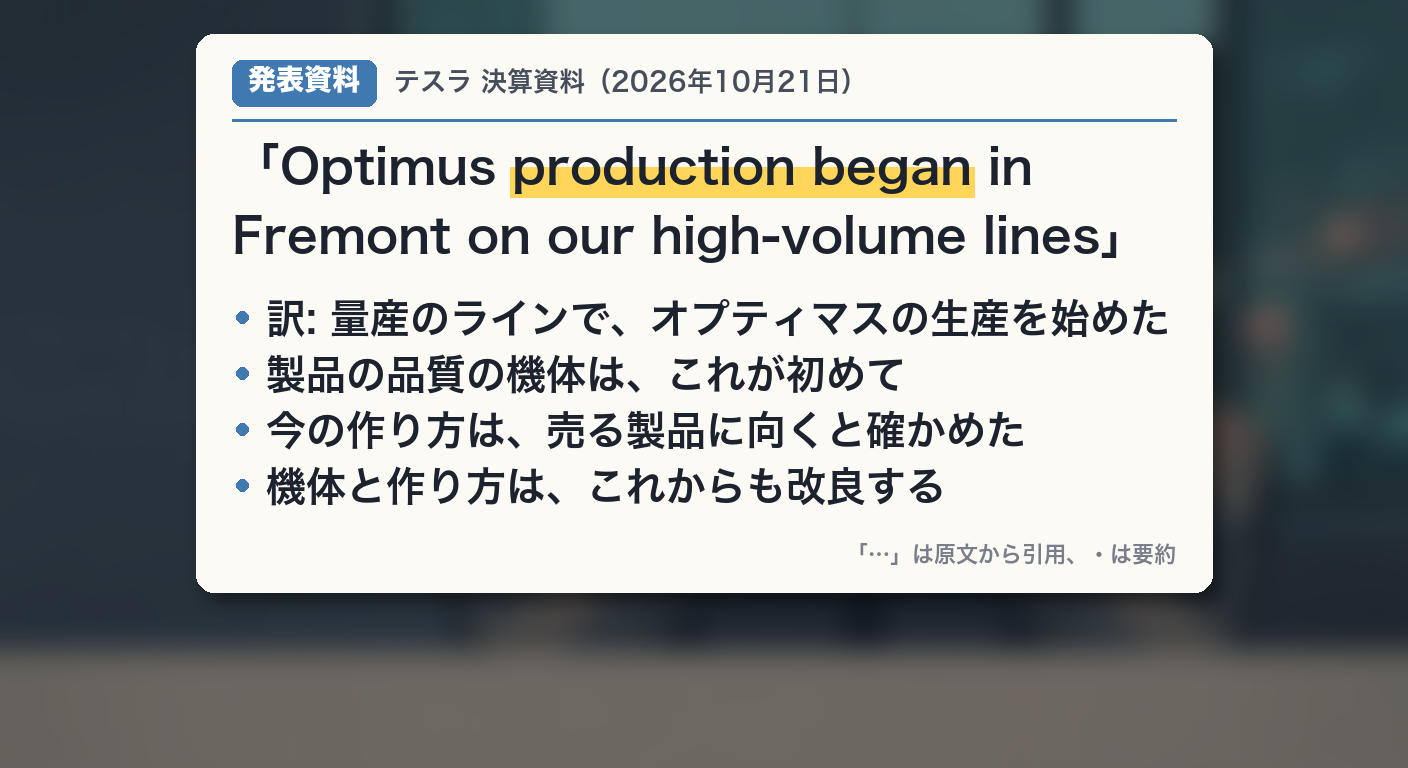
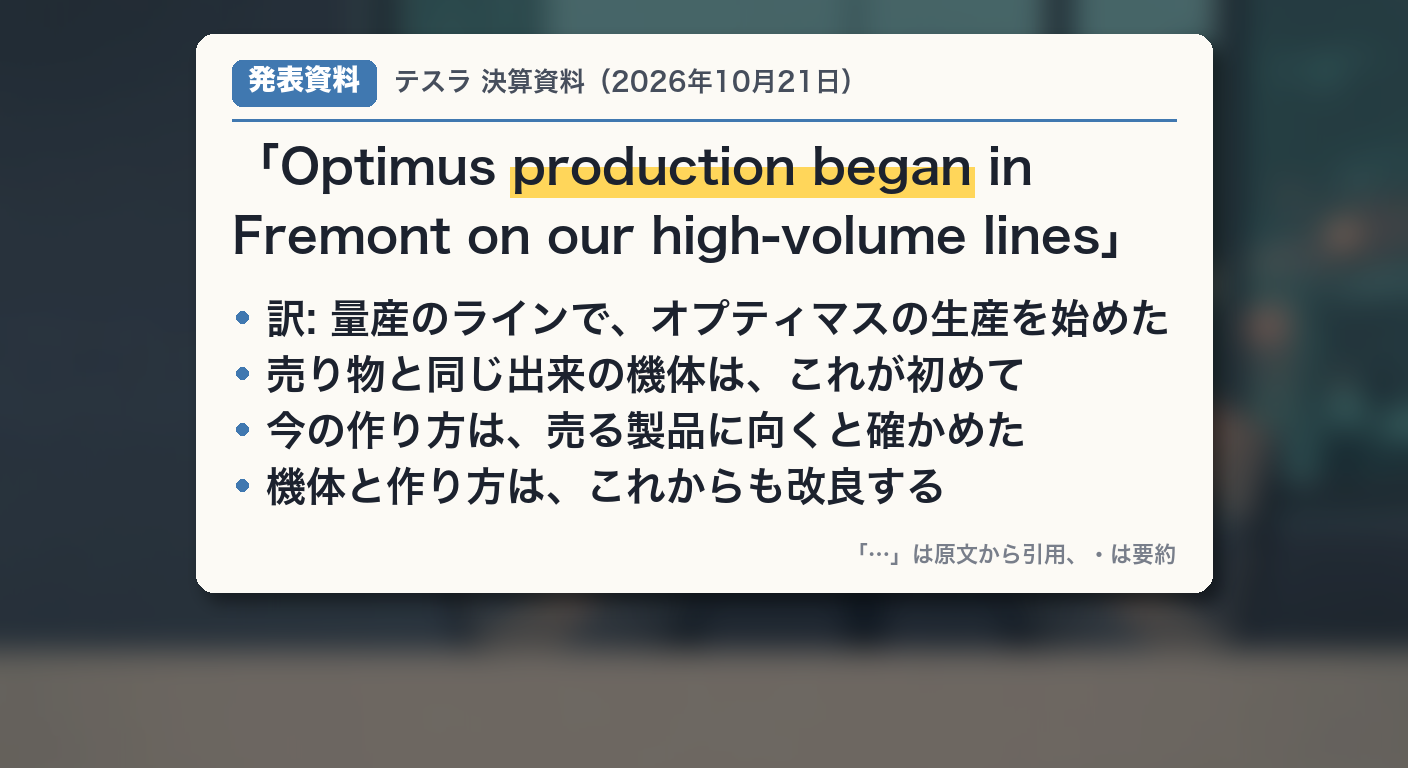
kl051: 初見レビュー3周で合格、台本確定

Changed region(s): [[0.1875, 0.4375, 0.7188, 0.5312]]

diff --git a/script_prep/kl051.md b/script_prep/kl051.md
@@ -95,7 +95,8 @@
 - 「決算資料」: テスラが3か月ごとに出す、会社の成績と計画の資料
 - 「説明会」: 決算資料を出した日に、経営陣が質問に答える会。その発言は資料とは別、と区別する
 - 「量産のライン」: 同じ物を大量に作るための工場の流れ作業
-- 「外の会社」: テスラ以外の会社（説明会の「companies outside of Tesla」）
+- 「テスラ以外の会社」（初出）→「よその会社」: 説明会の「companies outside of Tesla」。「外の会社」は耳で「外国の会社」「外注先」に聞こえるので使わない（初見レビュー1周目、2026-10-31）
+- 「売り物と同じ出来」: 決算資料の「production-quality」。「製品の品質」は耳で引っかかるので使わない（同上）
 - 「長持ち」: すぐにすり減らず、長い時間働けること
 
 ## 6. お題の主張の正確な形
